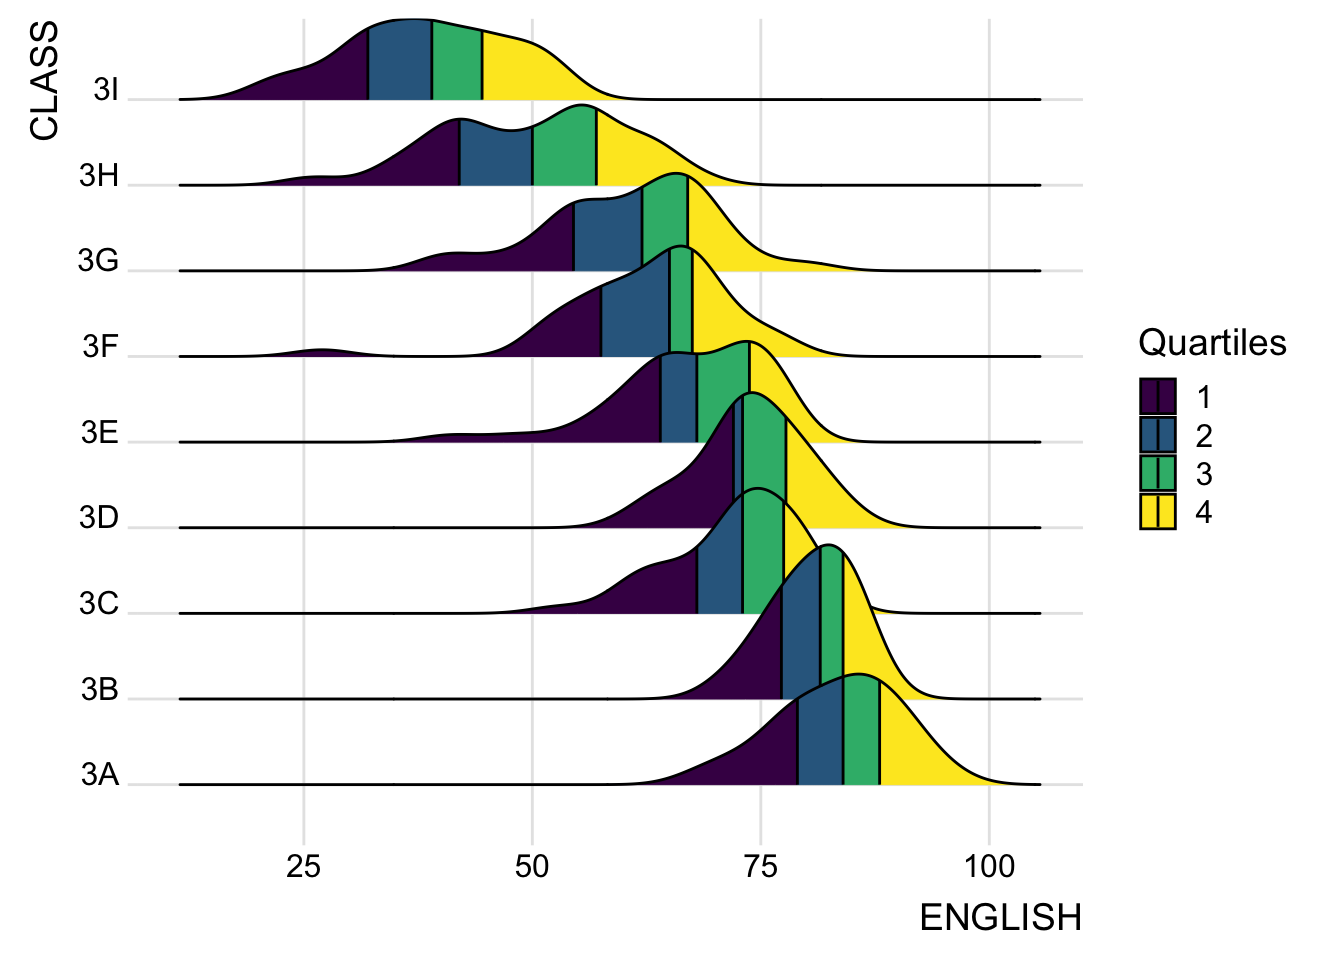
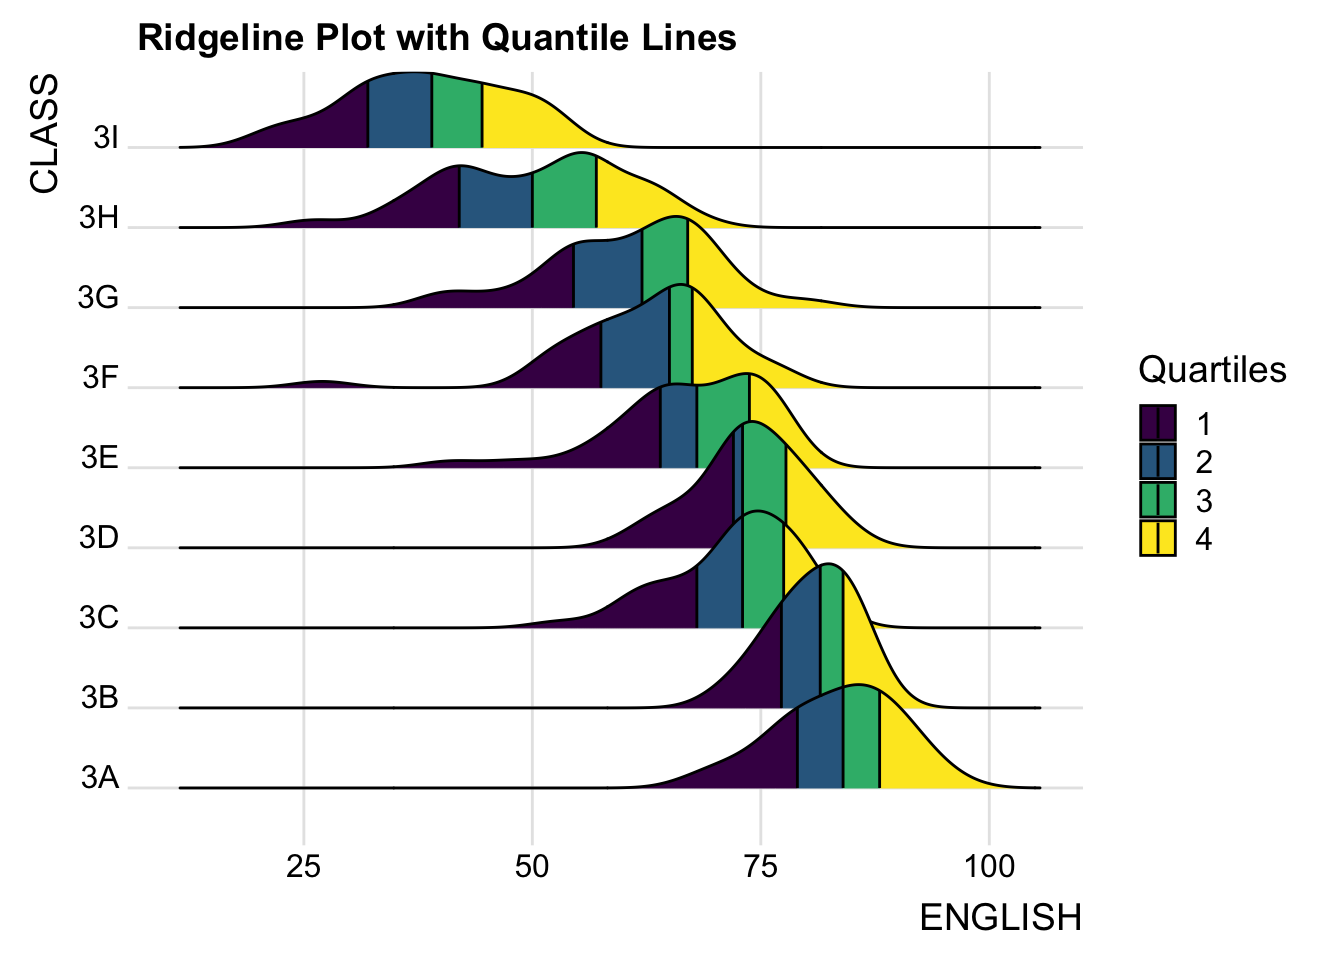
updates for notes

diff --git a/_site/In-class_Ex/In-class_Ex04.html b/_site/In-class_Ex/In-class_Ex04.html
@@ -440,12 +440,16 @@ pre > code.sourceCode > span > a:first-child::before { text-decoration: underlin
 <div class="cell">
 <div class="sourceCode cell-code" id="cb2"><pre class="sourceCode r code-with-copy"><code class="sourceCode r"><span id="cb2-1"><a href="#cb2-1" aria-hidden="true" tabindex="-1"></a>exam_data <span class="ot">&lt;-</span> <span class="fu">read_csv</span>(<span class="st">"data/Exam_data.csv"</span>)</span></code><button title="Copy to Clipboard" class="code-copy-button"><i class="bi"></i></button></pre></div>
 </div>
+<p>Before plotting ridgeline plots, we plot boxplot first to have a preview.</p>
 <div class="cell">
+<details class="code-fold">
+<summary>Show the code</summary>
 <div class="sourceCode cell-code" id="cb3"><pre class="sourceCode r code-with-copy"><code class="sourceCode r"><span id="cb3-1"><a href="#cb3-1" aria-hidden="true" tabindex="-1"></a><span class="fu">ggplot</span>(exam_data,</span>
 <span id="cb3-2"><a href="#cb3-2" aria-hidden="true" tabindex="-1"></a>       <span class="fu">aes</span>(<span class="at">x =</span> ENGLISH,</span>
 <span id="cb3-3"><a href="#cb3-3" aria-hidden="true" tabindex="-1"></a>           <span class="at">y =</span> CLASS)) <span class="sc">+</span></span>
 <span id="cb3-4"><a href="#cb3-4" aria-hidden="true" tabindex="-1"></a>  <span class="fu">geom_boxplot</span>() <span class="sc">+</span></span>
 <span id="cb3-5"><a href="#cb3-5" aria-hidden="true" tabindex="-1"></a>  <span class="fu">labs</span>(<span class="at">title =</span> <span class="st">"Boxplot showing distribution"</span>)</span></code><button title="Copy to Clipboard" class="code-copy-button"><i class="bi"></i></button></pre></div>
+</details>
 <div class="cell-output-display">
 <div>
 <figure class="figure">
@@ -454,7 +458,10 @@ pre > code.sourceCode > span > a:first-child::before { text-decoration: underlin
 </div>
 </div>
 </div>
+<p>Now, we plot the ridgeline plot.</p>
 <div class="cell">
+<details class="code-fold">
+<summary>Show the code</summary>
 <div class="sourceCode cell-code" id="cb4"><pre class="sourceCode r code-with-copy"><code class="sourceCode r"><span id="cb4-1"><a href="#cb4-1" aria-hidden="true" tabindex="-1"></a><span class="fu">ggplot</span>(exam_data,</span>
 <span id="cb4-2"><a href="#cb4-2" aria-hidden="true" tabindex="-1"></a>       <span class="fu">aes</span>(<span class="at">x =</span> ENGLISH,</span>
 <span id="cb4-3"><a href="#cb4-3" aria-hidden="true" tabindex="-1"></a>           <span class="at">y =</span> CLASS)) <span class="sc">+</span></span>
@@ -472,7 +479,9 @@ pre > code.sourceCode > span > a:first-child::before { text-decoration: underlin
 <span id="cb4-15"><a href="#cb4-15" aria-hidden="true" tabindex="-1"></a>    <span class="at">expand =</span> <span class="fu">c</span>(<span class="dv">0</span>,<span class="dv">0</span>),</span>
 <span id="cb4-16"><a href="#cb4-16" aria-hidden="true" tabindex="-1"></a>  ) <span class="sc">+</span></span>
 <span id="cb4-17"><a href="#cb4-17" aria-hidden="true" tabindex="-1"></a>  <span class="fu">scale_y_discrete</span>(<span class="at">name =</span> <span class="st">"Class"</span>, <span class="at">expand =</span> <span class="fu">expansion</span>(<span class="at">add=</span><span class="fu">c</span>(<span class="fl">0.2</span>, <span class="fl">2.6</span>))) <span class="sc">+</span></span>
-<span id="cb4-18"><a href="#cb4-18" aria-hidden="true" tabindex="-1"></a>  <span class="fu">theme_ridges</span>()</span></code><button title="Copy to Clipboard" class="code-copy-button"><i class="bi"></i></button></pre></div>
+<span id="cb4-18"><a href="#cb4-18" aria-hidden="true" tabindex="-1"></a>  <span class="fu">labs</span>(<span class="at">title =</span> <span class="st">"Visualising Distribution with Ridgeline Plot"</span>) <span class="sc">+</span></span>
+<span id="cb4-19"><a href="#cb4-19" aria-hidden="true" tabindex="-1"></a>  <span class="fu">theme_ridges</span>()</span></code><button title="Copy to Clipboard" class="code-copy-button"><i class="bi"></i></button></pre></div>
+</details>
 <div class="cell-output-display">
 <div>
 <figure class="figure">
@@ -481,7 +490,10 @@ pre > code.sourceCode > span > a:first-child::before { text-decoration: underlin
 </div>
 </div>
 </div>
+<p>Below is with quantile lines:</p>
 <div class="cell">
+<details class="code-fold">
+<summary>Show the code</summary>
 <div class="sourceCode cell-code" id="cb5"><pre class="sourceCode r code-with-copy"><code class="sourceCode r"><span id="cb5-1"><a href="#cb5-1" aria-hidden="true" tabindex="-1"></a><span class="fu">ggplot</span>(exam_data,</span>
 <span id="cb5-2"><a href="#cb5-2" aria-hidden="true" tabindex="-1"></a>       <span class="fu">aes</span>(<span class="at">x =</span> ENGLISH, </span>
 <span id="cb5-3"><a href="#cb5-3" aria-hidden="true" tabindex="-1"></a>           <span class="at">y =</span> CLASS, </span>
@@ -493,11 +505,69 @@ pre > code.sourceCode > span > a:first-child::before { text-decoration: underlin
 <span id="cb5-9"><a href="#cb5-9" aria-hidden="true" tabindex="-1"></a>    <span class="at">quantiles =</span> <span class="dv">4</span>,</span>
 <span id="cb5-10"><a href="#cb5-10" aria-hidden="true" tabindex="-1"></a>    <span class="at">quantile_lines =</span> <span class="cn">TRUE</span>) <span class="sc">+</span></span>
 <span id="cb5-11"><a href="#cb5-11" aria-hidden="true" tabindex="-1"></a>  <span class="fu">scale_fill_viridis_d</span>(<span class="at">name =</span> <span class="st">"Quartiles"</span>) <span class="sc">+</span></span>
-<span id="cb5-12"><a href="#cb5-12" aria-hidden="true" tabindex="-1"></a>  <span class="fu">theme_ridges</span>()</span></code><button title="Copy to Clipboard" class="code-copy-button"><i class="bi"></i></button></pre></div>
+<span id="cb5-12"><a href="#cb5-12" aria-hidden="true" tabindex="-1"></a>  <span class="fu">labs</span>(<span class="at">title =</span> <span class="st">"Ridgeline Plot with Quantile Lines"</span>) <span class="sc">+</span></span>
+<span id="cb5-13"><a href="#cb5-13" aria-hidden="true" tabindex="-1"></a>  <span class="fu">theme_ridges</span>()</span></code><button title="Copy to Clipboard" class="code-copy-button"><i class="bi"></i></button></pre></div>
+</details>
 <div class="cell-output-display">
 <div>
 <figure class="figure">
 <p><img src="In-class_Ex04_files/figure-html/unnamed-chunk-5-1.png" class="img-fluid figure-img" width="672"></p>
+</figure>
+</div>
+</div>
+</div>
+<p>Here, we can use half-eye plot to see the distribution:</p>
+<div class="cell">
+<details class="code-fold">
+<summary>Show the code</summary>
+<div class="sourceCode cell-code" id="cb6"><pre class="sourceCode r code-with-copy"><code class="sourceCode r"><span id="cb6-1"><a href="#cb6-1" aria-hidden="true" tabindex="-1"></a><span class="fu">ggplot</span>(exam_data, </span>
+<span id="cb6-2"><a href="#cb6-2" aria-hidden="true" tabindex="-1"></a>       <span class="fu">aes</span>(<span class="at">x =</span> RACE, </span>
+<span id="cb6-3"><a href="#cb6-3" aria-hidden="true" tabindex="-1"></a>           <span class="at">y =</span> ENGLISH)) <span class="sc">+</span></span>
+<span id="cb6-4"><a href="#cb6-4" aria-hidden="true" tabindex="-1"></a>  <span class="fu">stat_halfeye</span>(<span class="at">adjust =</span> <span class="fl">0.5</span>,</span>
+<span id="cb6-5"><a href="#cb6-5" aria-hidden="true" tabindex="-1"></a>               <span class="at">justification =</span> <span class="sc">-</span><span class="fl">0.2</span>,</span>
+<span id="cb6-6"><a href="#cb6-6" aria-hidden="true" tabindex="-1"></a>               <span class="at">.width =</span> <span class="dv">0</span>,</span>
+<span id="cb6-7"><a href="#cb6-7" aria-hidden="true" tabindex="-1"></a>               <span class="at">point_colour =</span> <span class="cn">NA</span>) <span class="sc">+</span> <span class="co">#see no outliers.</span></span>
+<span id="cb6-8"><a href="#cb6-8" aria-hidden="true" tabindex="-1"></a>  <span class="fu">geom_boxplot</span>(<span class="at">width =</span> .<span class="dv">20</span>, <span class="co">#not overly crowded.</span></span>
+<span id="cb6-9"><a href="#cb6-9" aria-hidden="true" tabindex="-1"></a>               <span class="at">outlier.shape =</span> <span class="cn">NA</span>) <span class="sc">+</span> <span class="co">#see no outliers.</span></span>
+<span id="cb6-10"><a href="#cb6-10" aria-hidden="true" tabindex="-1"></a>  <span class="fu">coord_flip</span>() <span class="sc">+</span></span>
+<span id="cb6-11"><a href="#cb6-11" aria-hidden="true" tabindex="-1"></a>  <span class="fu">labs</span>(<span class="at">title =</span> <span class="st">"Half-eye Graph"</span>) </span></code><button title="Copy to Clipboard" class="code-copy-button"><i class="bi"></i></button></pre></div>
+</details>
+<div class="cell-output-display">
+<div>
+<figure class="figure">
+<p><img src="In-class_Ex04_files/figure-html/unnamed-chunk-6-1.png" class="img-fluid figure-img" width="672"></p>
+</figure>
+</div>
+</div>
+</div>
+<p>Next we add dot plots with <code>stat_dots()</code>. This gives better clarify.</p>
+<ul>
+<li><p>High-level distribution of probability density&gt; This smooths out. Is it skewed or normal distributed.</p></li>
+<li><p>Dots: provides the detail of it. With this we can observe that for some categories like “Others” has very small sample.</p></li>
+</ul>
+<div class="cell">
+<details class="code-fold">
+<summary>Show the code</summary>
+<div class="sourceCode cell-code" id="cb7"><pre class="sourceCode r code-with-copy"><code class="sourceCode r"><span id="cb7-1"><a href="#cb7-1" aria-hidden="true" tabindex="-1"></a><span class="fu">ggplot</span>(exam_data, </span>
+<span id="cb7-2"><a href="#cb7-2" aria-hidden="true" tabindex="-1"></a>       <span class="fu">aes</span>(<span class="at">x =</span> RACE, </span>
+<span id="cb7-3"><a href="#cb7-3" aria-hidden="true" tabindex="-1"></a>           <span class="at">y =</span> ENGLISH)) <span class="sc">+</span></span>
+<span id="cb7-4"><a href="#cb7-4" aria-hidden="true" tabindex="-1"></a>  <span class="fu">stat_halfeye</span>(<span class="at">adjust =</span> <span class="fl">0.5</span>,</span>
+<span id="cb7-5"><a href="#cb7-5" aria-hidden="true" tabindex="-1"></a>               <span class="at">justification =</span> <span class="sc">-</span><span class="fl">0.2</span>,</span>
+<span id="cb7-6"><a href="#cb7-6" aria-hidden="true" tabindex="-1"></a>               <span class="at">.width =</span> <span class="dv">0</span>,</span>
+<span id="cb7-7"><a href="#cb7-7" aria-hidden="true" tabindex="-1"></a>               <span class="at">point_colour =</span> <span class="cn">NA</span>) <span class="sc">+</span></span>
+<span id="cb7-8"><a href="#cb7-8" aria-hidden="true" tabindex="-1"></a>  <span class="fu">geom_boxplot</span>(<span class="at">width =</span> .<span class="dv">20</span>,</span>
+<span id="cb7-9"><a href="#cb7-9" aria-hidden="true" tabindex="-1"></a>               <span class="at">outlier.shape =</span> <span class="cn">NA</span>) <span class="sc">+</span></span>
+<span id="cb7-10"><a href="#cb7-10" aria-hidden="true" tabindex="-1"></a>  <span class="fu">stat_dots</span>(<span class="at">side =</span> <span class="st">"left"</span>, </span>
+<span id="cb7-11"><a href="#cb7-11" aria-hidden="true" tabindex="-1"></a>            <span class="at">justification =</span> <span class="fl">1.2</span>, </span>
+<span id="cb7-12"><a href="#cb7-12" aria-hidden="true" tabindex="-1"></a>            <span class="at">binwidth =</span> <span class="cn">NA</span>, <span class="co">#suggested to put all dots in the range.</span></span>
+<span id="cb7-13"><a href="#cb7-13" aria-hidden="true" tabindex="-1"></a>            <span class="at">dotsize =</span> <span class="fl">1.3</span>) <span class="sc">+</span> <span class="co">#can apply transparency if too many.</span></span>
+<span id="cb7-14"><a href="#cb7-14" aria-hidden="true" tabindex="-1"></a>  <span class="fu">coord_flip</span>() <span class="sc">+</span> <span class="co">#this is to flip into horizontal graph</span></span>
+<span id="cb7-15"><a href="#cb7-15" aria-hidden="true" tabindex="-1"></a>  <span class="fu">labs</span>(<span class="at">title =</span> <span class="st">"Adding dot plots to the Raincloud Plot"</span>) </span></code><button title="Copy to Clipboard" class="code-copy-button"><i class="bi"></i></button></pre></div>
+</details>
+<div class="cell-output-display">
+<div>
+<figure class="figure">
+<p><img src="In-class_Ex04_files/figure-html/unnamed-chunk-7-1.png" class="img-fluid figure-img" width="672"></p>
 </figure>
 </div>
 </div>
